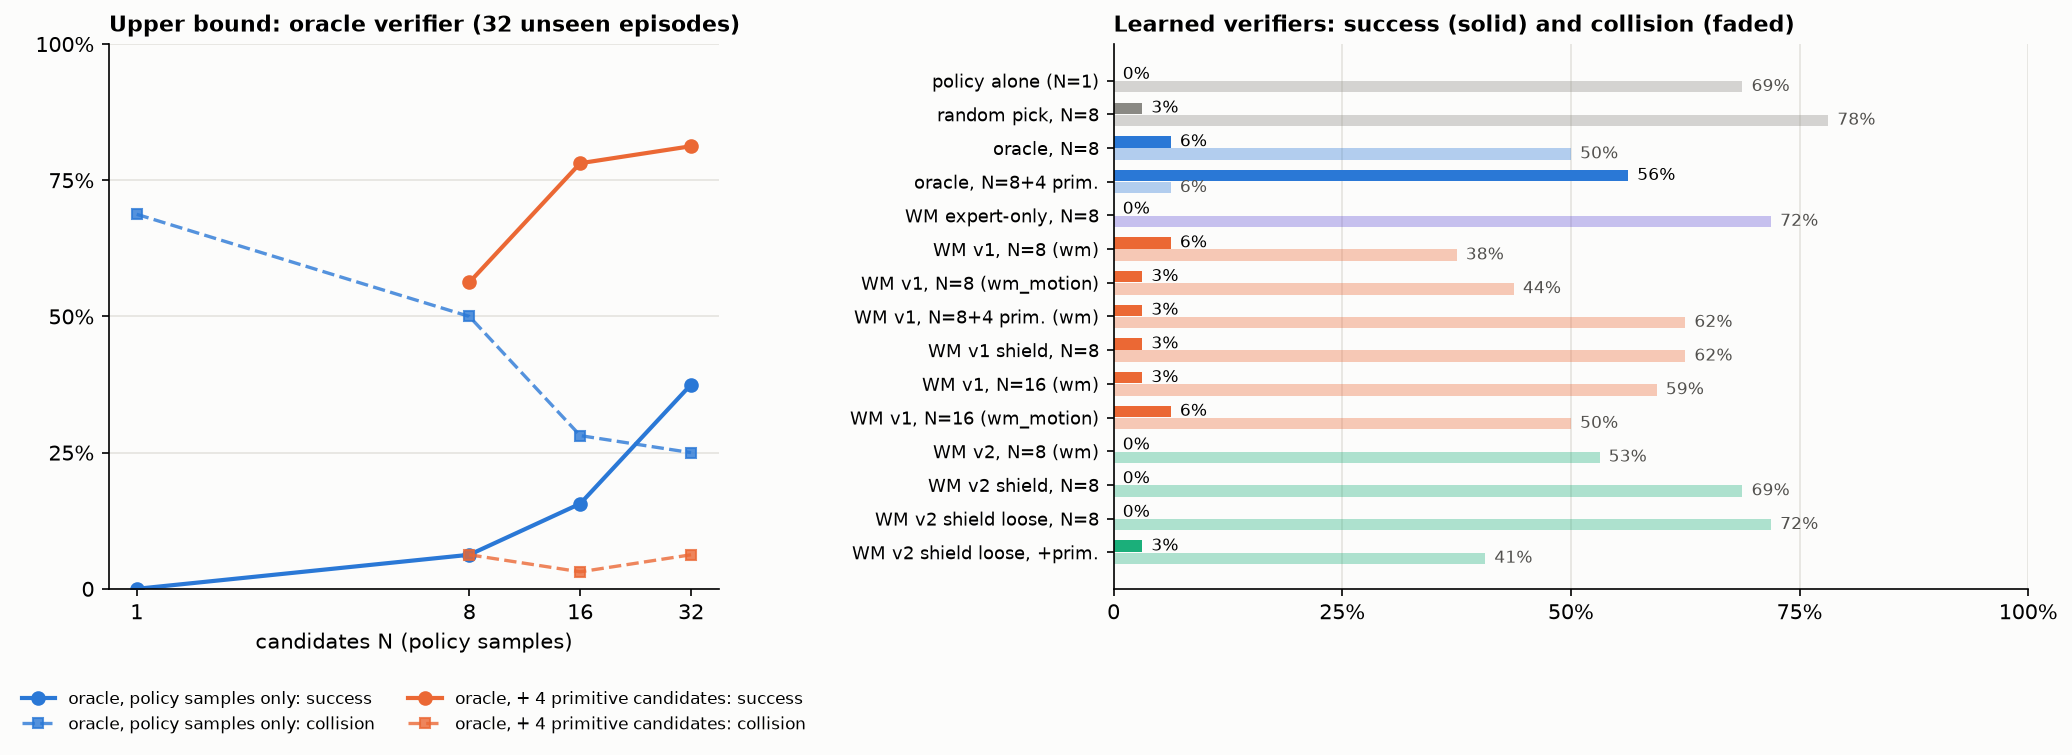
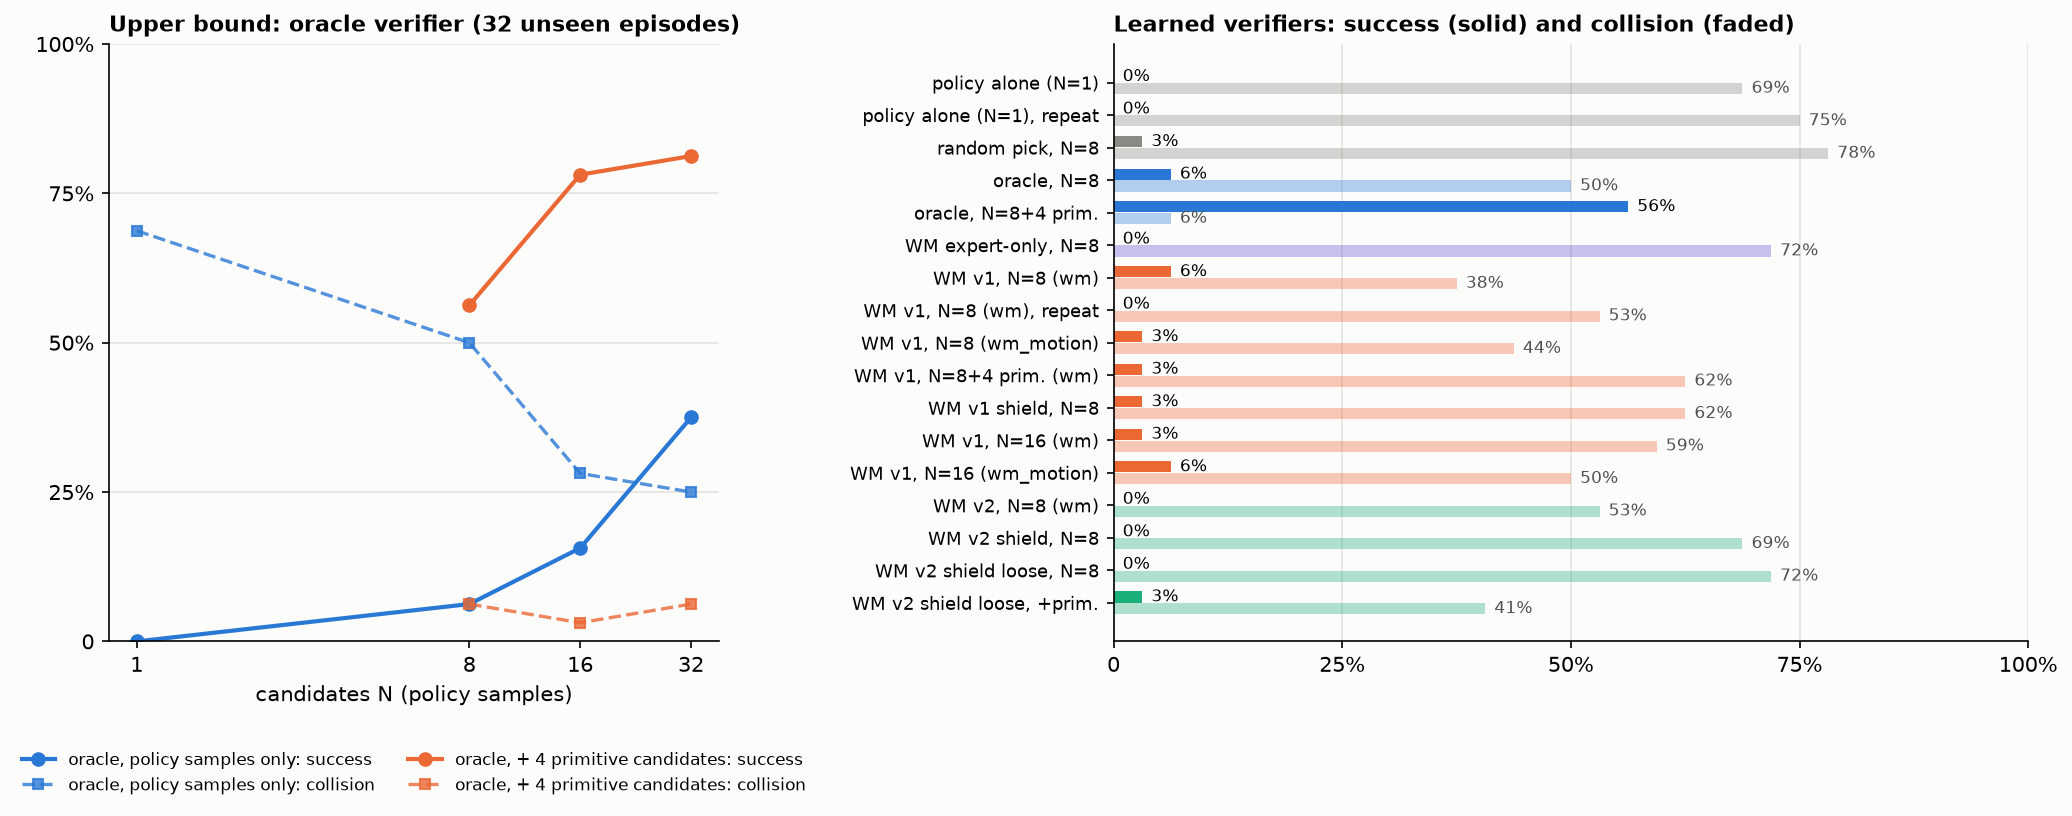
results doc: repeat runs and run-to-run noise
Claude-Session: https://claude.ai/code/session_01WLSw4RXVy3RzgnsuaxAV9K

diff --git a/scripts/wm_results_figure.py b/scripts/wm_results_figure.py
@@ -28,7 +28,7 @@ def main():
     ap.add_argument("--run", default="runs/v1_stageA")
     ap.add_argument("--out", default="docs/assets/fig11_wm_verifier.png")
     args = ap.parse_args()
-    fig, axs = plt.subplots(1, 2, figsize=(14, 5.2), gridspec_kw={"width_ratios": [1, 1.5]})
+    fig, axs = plt.subplots(1, 2, figsize=(14, 5.6), gridspec_kw={"width_ratios": [1, 1.5]})
 
     # --- left: oracle scaling
     ax = axs[0]
@@ -57,9 +57,11 @@ def main():
 
     # --- right: learned verifiers
     ax = axs[1]
-    rows = [("policy alone (N=1)", "bon_n1_first", MUTED), ("random pick, N=8", "bon_n8_random", MUTED),
+    rows = [("policy alone (N=1)", "bon_n1_first", MUTED), ("policy alone (N=1), repeat", "bon_n1_first_rep", MUTED),
+            ("random pick, N=8", "bon_n8_random", MUTED),
             ("oracle, N=8", "bon_n8_oracle", BLUE), ("oracle, N=8+4 prim.", "bon_n8p_oracle", BLUE),
             ("WM expert-only, N=8", "bon_n8_wmE", VIOLET), ("WM v1, N=8 (wm)", "bon_n8_wm1", ORANGE),
+            ("WM v1, N=8 (wm), repeat", "bon_n8_wm1_rep", ORANGE),
             ("WM v1, N=8 (wm_motion)", "bon_n8_wm1motion", ORANGE), ("WM v1, N=8+4 prim. (wm)", "bon_n8p_wm1", ORANGE),
             ("WM v1 shield, N=8", "bon_n8_wm1shield", ORANGE), ("WM v1, N=16 (wm)", "bon_n16_wm1", ORANGE),
             ("WM v1, N=16 (wm_motion)", "bon_n16_wm1motion", ORANGE), ("WM v2, N=8 (wm)", "bon_n8_wm2", AQUA),

diff --git a/docs/wm_verifier_results.md b/docs/wm_verifier_results.md
@@ -53,6 +53,7 @@
 | 只用专家数据 | N=8 | wm_motion | 0.00 | 0.25 | 0.59 | 0.41 | 0.45 | 0.44 m |
 | 只用专家数据 | N=8+4 | wm | 0.03 | 0.16 | 0.81 | 0.16 | 0.19 | 1.76 m |
 | **v1（+VLA 数据）** | **N=8** | **wm** | **0.06** | **0.31** | **0.38** | 0.62 | 0.49 | **0.19 m** |
+| v1（同一配置重跑） | N=8 | wm | 0.00 | 0.22 | 0.53 | 0.47 | 0.42 | 0.33 m |
 | v1 | N=8 | wm_motion | 0.03 | 0.22 | 0.44 | 0.56 | 0.49 | 0.39 m |
 | v1 | N=8+4 | wm | 0.03 | 0.31 | 0.62 | 0.28 | 0.29 | 0.96 m |
 | v1 | N=8+4 | wm_motion | 0.03 | 0.25 | 0.44 | 0.56 | 0.23 | 1.09 m |
@@ -69,7 +70,7 @@
 怎么读：
 
 - **只见过专家数据的世界模型是个坏裁判**：它没见过碰撞，把"动得快"都当成进度，挑出来的动作平均 3 秒就撞墙，比随机还差。
-- **加入 VLA 自己飞的数据后（v1），裁判立刻有用**：碰撞 69% → 38%，比 oracle N=8 的 50% 还低；regret 从 0.54 m 降到 0.19 m。SR 6% 和 oracle N=8 持平。
+- **加入 VLA 自己飞的数据后（v1），裁判开始有用**：碰撞 69% → 38%，regret 从 0.54 m 降到 0.19 m，SR 6% 和 oracle N=8 持平。**但重跑一次同一配置**得到 SR 0%、碰撞 53%（基线重跑是 0% / 75%）。两次平均：碰撞 72% → 45%，SR 0% → 3%。所以可靠的结论是"碰撞明显减少"，成功率的提升还在噪声范围内。
 - **但 v1 加手工候选反而变差**。原因在 2.3：它能判断"会不会撞"，判断不了"哪个方向离目标更近"。手工候选（左转 / 右转 / 前进）之间的区别恰恰全在进度上。
 - **严格阈值的 shield 几乎不触发**（P(不撞) < 0.7 或离障 < 0.2 m 才换动作，只改了 3% 的决策），所以效果接近基线，只是碰撞略降（69% → 53–62%）。宽松阈值的结果见 2.4。
 
@@ -95,14 +96,14 @@
 - **学出来的裁判不随 N 变好。** oracle 从 N=8 到 N=16 成功率 6% → 16%，v1 却是 6% → 3%（碰撞 38% → 59%）。候选越多，排序质量不够的裁判越容易挑到一个看起来好、实际上撞墙的候选——这正是 Test-time scaling for World Action Models 那篇文章警告过的"N 大了反而变差"。裁判的 top-1 一致率只有 38–49%，还不足以从 16 个里挑。
 - **数据翻倍（v2）没有带来提升**：N=8 时 SR 0%、碰撞 53%，regret 0.45 m，比 v1 差。离线指标也只是持平（碰撞 AUC 0.92 对 0.95）。新加的数据里一半是 oracle + 手工候选飞出来的"好轨迹"，碰撞样本比例反而下降了。32 条评测的噪声是 ±1–2 条（见第 5 节），所以 v1 和 v2 的差别不能看得太重。
 - **shield 需要安全的备选项才有用**：没有手工候选时，预测到危险也只能换成另一个策略样本，碰撞率不变（72%）；加上悬停 / 转向这些备选项，碰撞率降到 41%。但 shield 只改了 8–10% 的决策，成功率没有变化。
-- **到目前为止最好的学出来的配置**仍是 v1、N=8、`wm`：SR 6%，碰撞 38%，regret 0.19 m。
+- **到目前为止最好的学出来的配置**仍是 v1、N=8、`wm`：两次运行平均 SR 3%，碰撞 45%（基线两次平均 0% / 72%），regret 0.19–0.33 m。
 
 ---
 
 ## 3. 结论
 
 1. **"策略提案 + 裁判选择"这条路是通的，而且上限很高。** 用 oracle 当裁判、N=32 加 4 个手工候选，同一个 VLA 的成功率从 0% 到 81%；只用策略自己的样本，N=32 也有 38%。这说明 v0 的 VLA 其实"会飞"，缺的是"别停、别撞、往哪转"三个判断。
-2. **学出来的世界模型已经能做其中一个判断：别撞。** 一步碰撞预测 AUC 0.95，闭环碰撞率 69% → 38%（v1，N=8）。这是 Dreamer 和 VLA 结合后的第一个实际收益。
+2. **学出来的世界模型已经能做其中一个判断：别撞。** 一步碰撞预测 AUC 0.95，闭环碰撞率从 69–75% 降到 38–53%（v1，N=8，两次运行）。这是 Dreamer 和 VLA 结合后的第一个实际收益；成功率（0–6%）的变化还在噪声范围内。
 3. **它还做不了"往哪转"，所以成功率没有跟上。** 进度预测和真实进度的相关性只有 0.15：没有目标信息就没有进度。结果是：加手工候选、增大 N 都让 oracle 变好，却让学出来的裁判变差（N=16 时 SR 3%、碰撞 59%）——候选越多，排序不准的裁判越容易选错。这是下一步必须解决的，也正是计划里"阶段 B：目标条件价值"的内容。
 4. **"别停"目前靠规则。** 让世界模型否决 stop 的效果有限（v1 只否决了 2 次），因为它的"已到达"头是在专家数据上学的，而策略乱停的地方它也没见过几次。
 5. **只加数据不够。** v2 的数据是 v1 的两倍，但闭环没有变好。下一步的收益在"给世界模型目标信息"和"直接向 oracle 学打分"，不在更多同类数据。
@@ -122,7 +123,7 @@
 ## 5. 工程记录
 
 - **hyperlux JIT 卡死**：每个进程启动时会 `cmake --build` 检查一次，在这个集群上会随机挂死（cmake 子进程变僵尸，父进程等不到）。同时启动多个仿真还会在 NFS 上的 flock 互相死锁。解决：评测脚本设 `HYPERLUX_SKIP_BUILD=1`（跳过检查，前提是已经编译过），并用 `scripts/run_sim.sh` 串行化启动。此前所有闭环运行都是 4–6 分钟一轮，现在 1–3 分钟。
-- **N=1 的结果不是逐位可复现的**：bf16 下 batch 组成不同会导致微小差异，40 s 的 rollout 把它放大成 ±2 条 episode 的差别。32 条的评测集上，SR 差 1 条就是 3%。
+- **结果不是逐位可复现的**：bf16 下 batch 组成不同会导致微小差异，40 s 的 rollout 把它放大。同一配置重跑：基线 SR 0% / 碰撞 69% → 0% / 75%；v1 裁判 6% / 38% → 0% / 53%。32 条的评测集上，SR 差 1 条就是 3%，碰撞率差 2 条就是 6%。**低于 10 个百分点的差别不要当作结论**；下一轮评测应该用 64–96 条并重复 2–3 次。
 - 数据：`data/wm/expert`（专家，1,723 条）、`data/wm/onpolicy_v0`（VLA N=1，128 条）、`onpolicy_v0_rand`（随机 N=4，128 条）、`onpolicy_v0_orc`（oracle + 手工候选，128 条）、`onpolicy_v0_randp`（随机 + 手工候选，128 条）、`onpolicy_v0_unseen`（未见房子，32 条，只用于验证）。
 - 模型：`runs/wm_expert`、`runs/wm_v1`、`runs/wm_v2`（各约 10 分钟，1×H100）。
 
